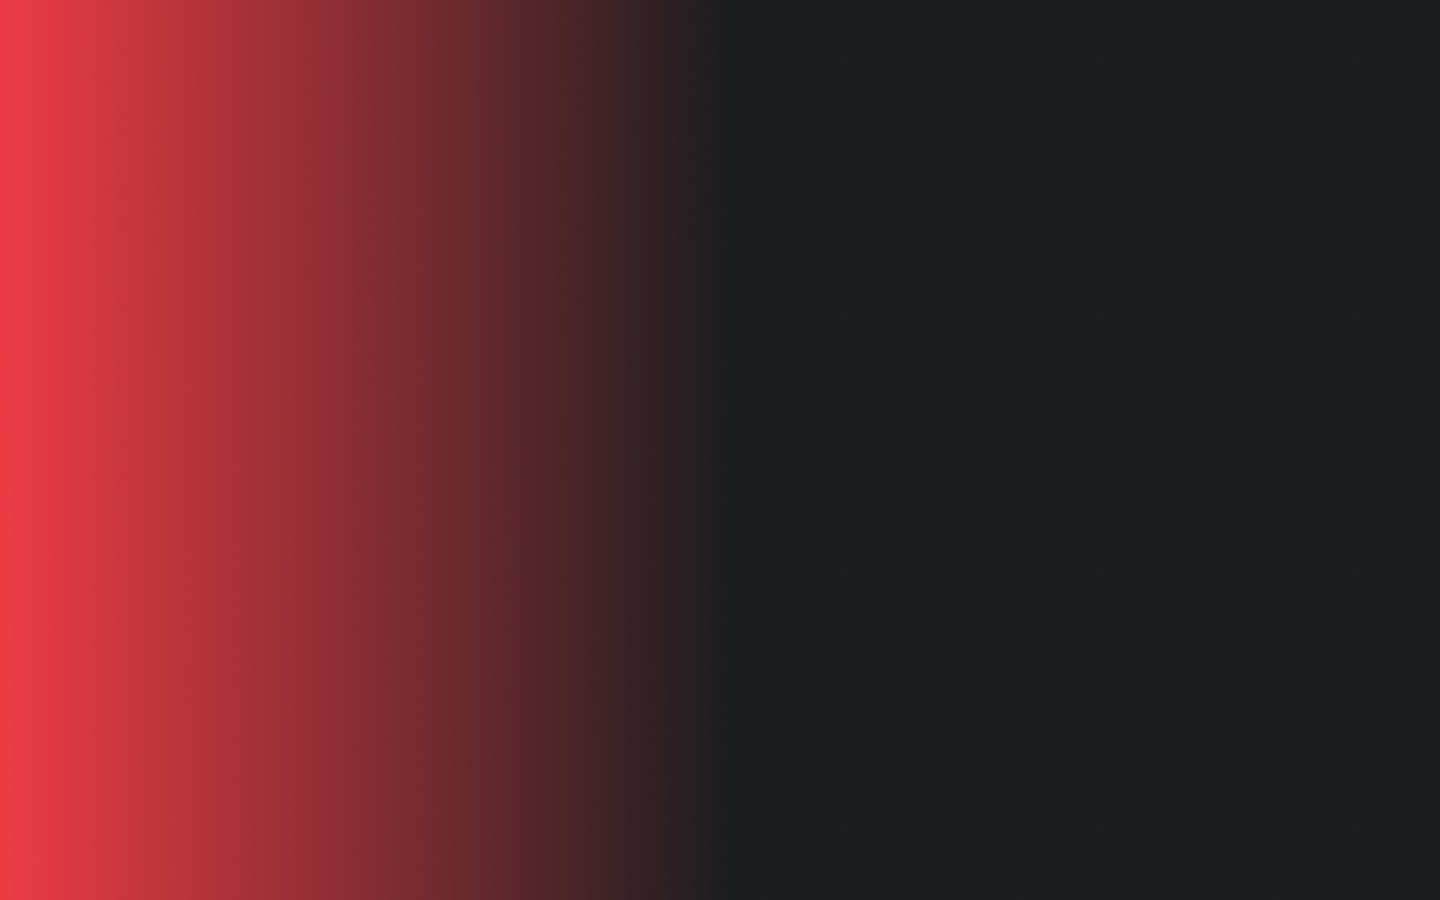
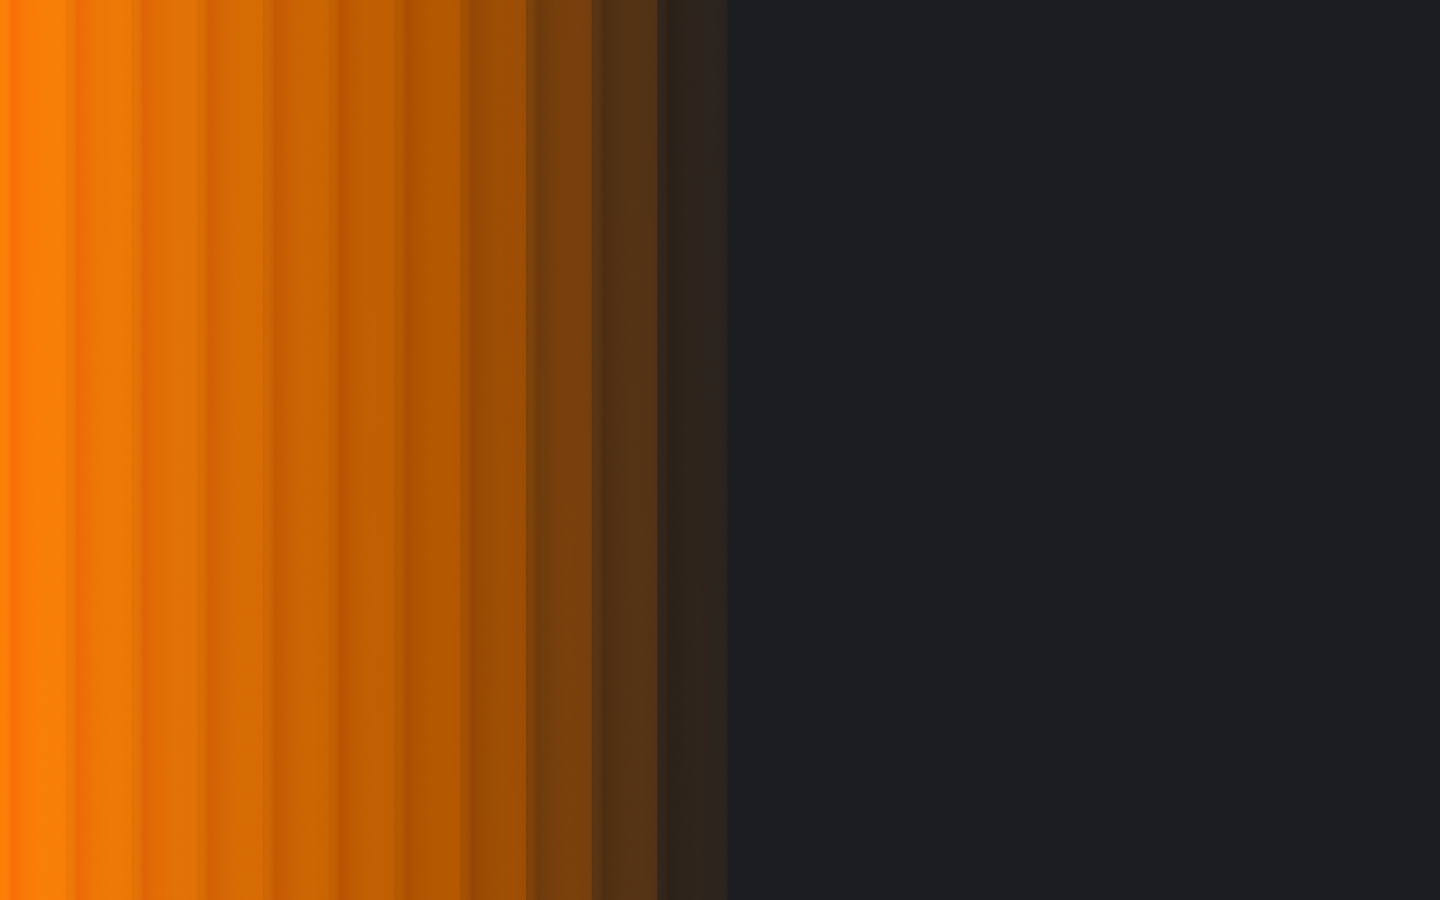
1

diff --git a/src/partials/hero.html b/src/partials/hero.html
@@ -1,24 +1,27 @@
 <section class="section-padding hero-section">
     <div class="container">
-        <h1 class="hero-title">Hello. I’m Fullstack developer Lloyd Jefferson.</h1>
-        <address class="hero-contacts">
-            <ul class="hero-contacts-list">
-                <li class="hero-contacts-item">
-                    <a class="hero-contacts-link" href="https://www.instagram.com/goitclub/">IG</a>
-                </li>
-                <li class="hero-contacts-item">
-                    <a class="hero-contacts-link" href="https://www.facebook.com/goITclub/">FB</a>
-                </li>
-                <li class="hero-contacts-item">
-                    <a class="hero-contacts-link" href="https://www.youtube.com/c/GoIT">YT</a>
-                </li>
-                <li class="hero-contacts-item">
-                    <a class="hero-contacts-link" href="https://github.com/LazyStudent23/BraveCoders">GH</a>
-                </li>
-                <li class="hero-contacts-item">
-                    <a class="hero-contacts-link" href="mailto:lloydjefferson@gmail.com">lloydjefferson@gmail.com</a>
-                </li>
-            </ul>
-        </address>
+        <div class="hero-wrap">
+            <h1 class="hero-title">Hello. I’m Fullstack developer Lloyd Jefferson.</h1>
+            <address class="hero-contacts">
+                <ul class="hero-contacts-list">
+                    <li class="hero-contacts-item">
+                        <a class="hero-contacts-link" href="https://www.instagram.com/goitclub/">IG</a>
+                    </li>
+                    <li class="hero-contacts-item">
+                        <a class="hero-contacts-link" href="https://www.facebook.com/goITclub/">FB</a>
+                    </li>
+                    <li class="hero-contacts-item">
+                        <a class="hero-contacts-link" href="https://www.youtube.com/c/GoIT">YT</a>
+                    </li>
+                    <li class="hero-contacts-item">
+                        <a class="hero-contacts-link" href="https://github.com/LazyStudent23/BraveCoders">GH</a>
+                    </li>
+                    <li class="hero-contacts-item">
+                        <a class="hero-contacts-link" href="mailto:lloydjefferson@gmail.com">lloydjefferson@gmail.com</a>
+                    </li>
+                </ul>
+            </address>
+        </div>
+        
     </div>
 </section>

diff --git a/src/css/hero.css b/src/css/hero.css
@@ -1,14 +1,99 @@
 
 .hero-section {
-    background-image: url(../img/hero-bg-desk.png);
+    background-repeat: no-repeat;
+        background-position: center;
+        background-size: cover;
+    background-image: url(../img/hero-bg-mobile.png);
+    margin: 0 auto;
 }
 
-.hero-title {}
+.hero-wrap {
+    padding: 169px 2px 32px 16px;
+}
 
-.hero-contacts {}
+.hero-title {
+    font-family: "Inter Tight", sans-serif;
+        font-weight: 500;
+        font-size: 50px;
+        line-height: 50px;
+        letter-spacing: -0.03em;
+        text-transform: uppercase;
+        color: #fafafa;
+        max-width: 343px;
+        margin-bottom: 162px;
+}
 
-.hero-contacts-list {}
+
+.hero-contacts {
+    
+}
+
+.hero-contacts-list {
+    display: flex;
+        align-items: center;
+        /* flex-wrap: wrap; */
+        flex-direction: row;
+        gap: 4px;
+}
 
 .hero-contacts-item {}
 
-.hero-contacts-link {}
+.hero-contacts-link {
+    font-family: "Inter Tight", sans-serif;
+    font-weight: 500;
+        font-size: 14px;
+        letter-spacing: -0.02em;
+        color: #fafafa;
+        line-height: 17px;
+    font-style: normal;
+    border: 1px solid rgba(250, 250, 250, 0.2);
+        border-radius: 60px;
+        padding: 10px 12px;
+        width: 38px;
+        height: 37px;
+}
+
+@media screen and (min-width: 768px){
+
+    .hero-section{
+        background-image: url(../img/hero-bg-tabl.png);
+    }
+
+
+    .hero-title{
+        font-size: 90px;
+        max-width: 632px;
+        margin-bottom: 187px;
+        line-height: 90px;
+    }
+
+    .hero-wrap {
+        padding: 188px 22.5px 32px 178px;
+    }
+
+    .hero-contacts-link{
+        line-height: 19px;
+        font-style: 16px;
+
+    }
+}
+
+@media screen and (min-width: 1440px){
+    .hero-section {
+        background-image: url(../img/hero-bg-desk.png);
+    }
+    
+    .hero-title{
+        max-width: 1084px;
+        margin-bottom: 153px;
+
+    }
+
+        .hero-contacts-link {
+            
+        }
+
+    
+    
+
+}
